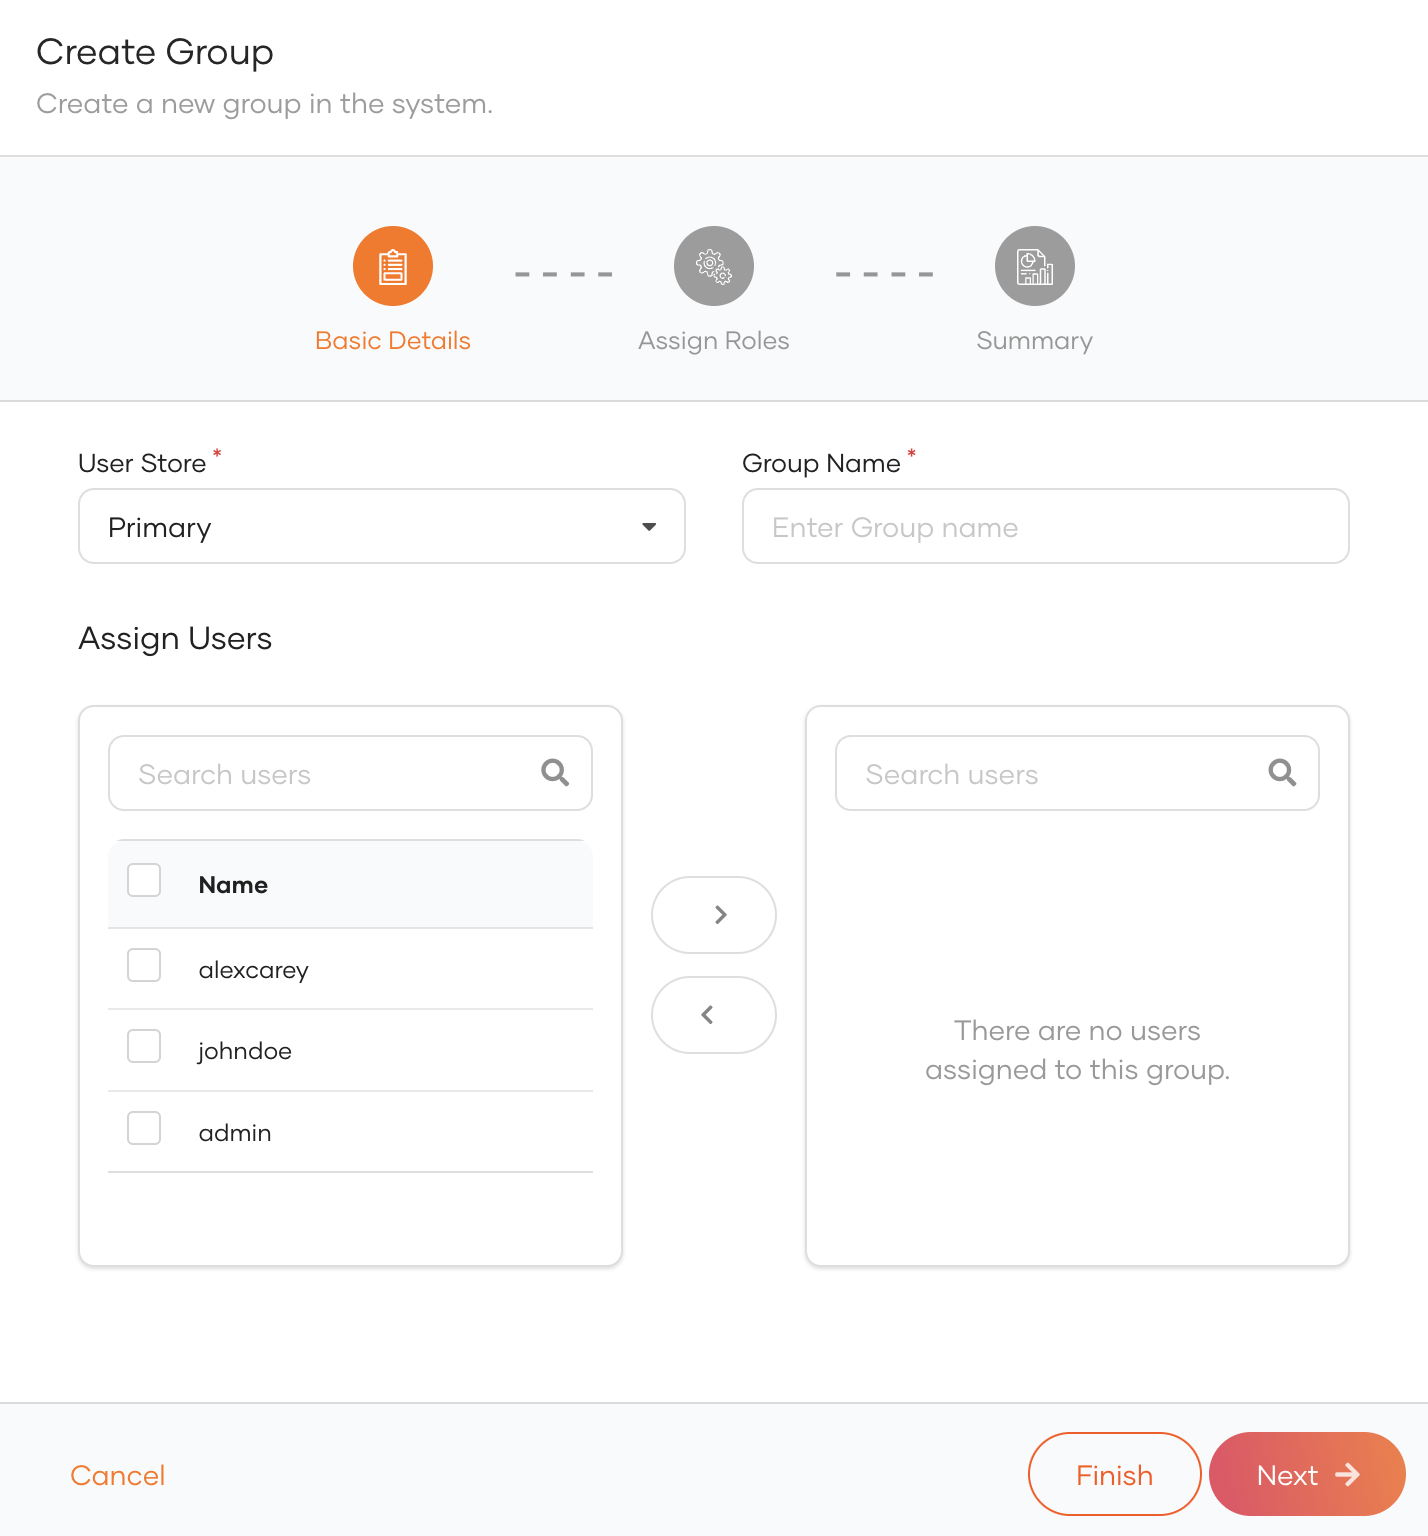
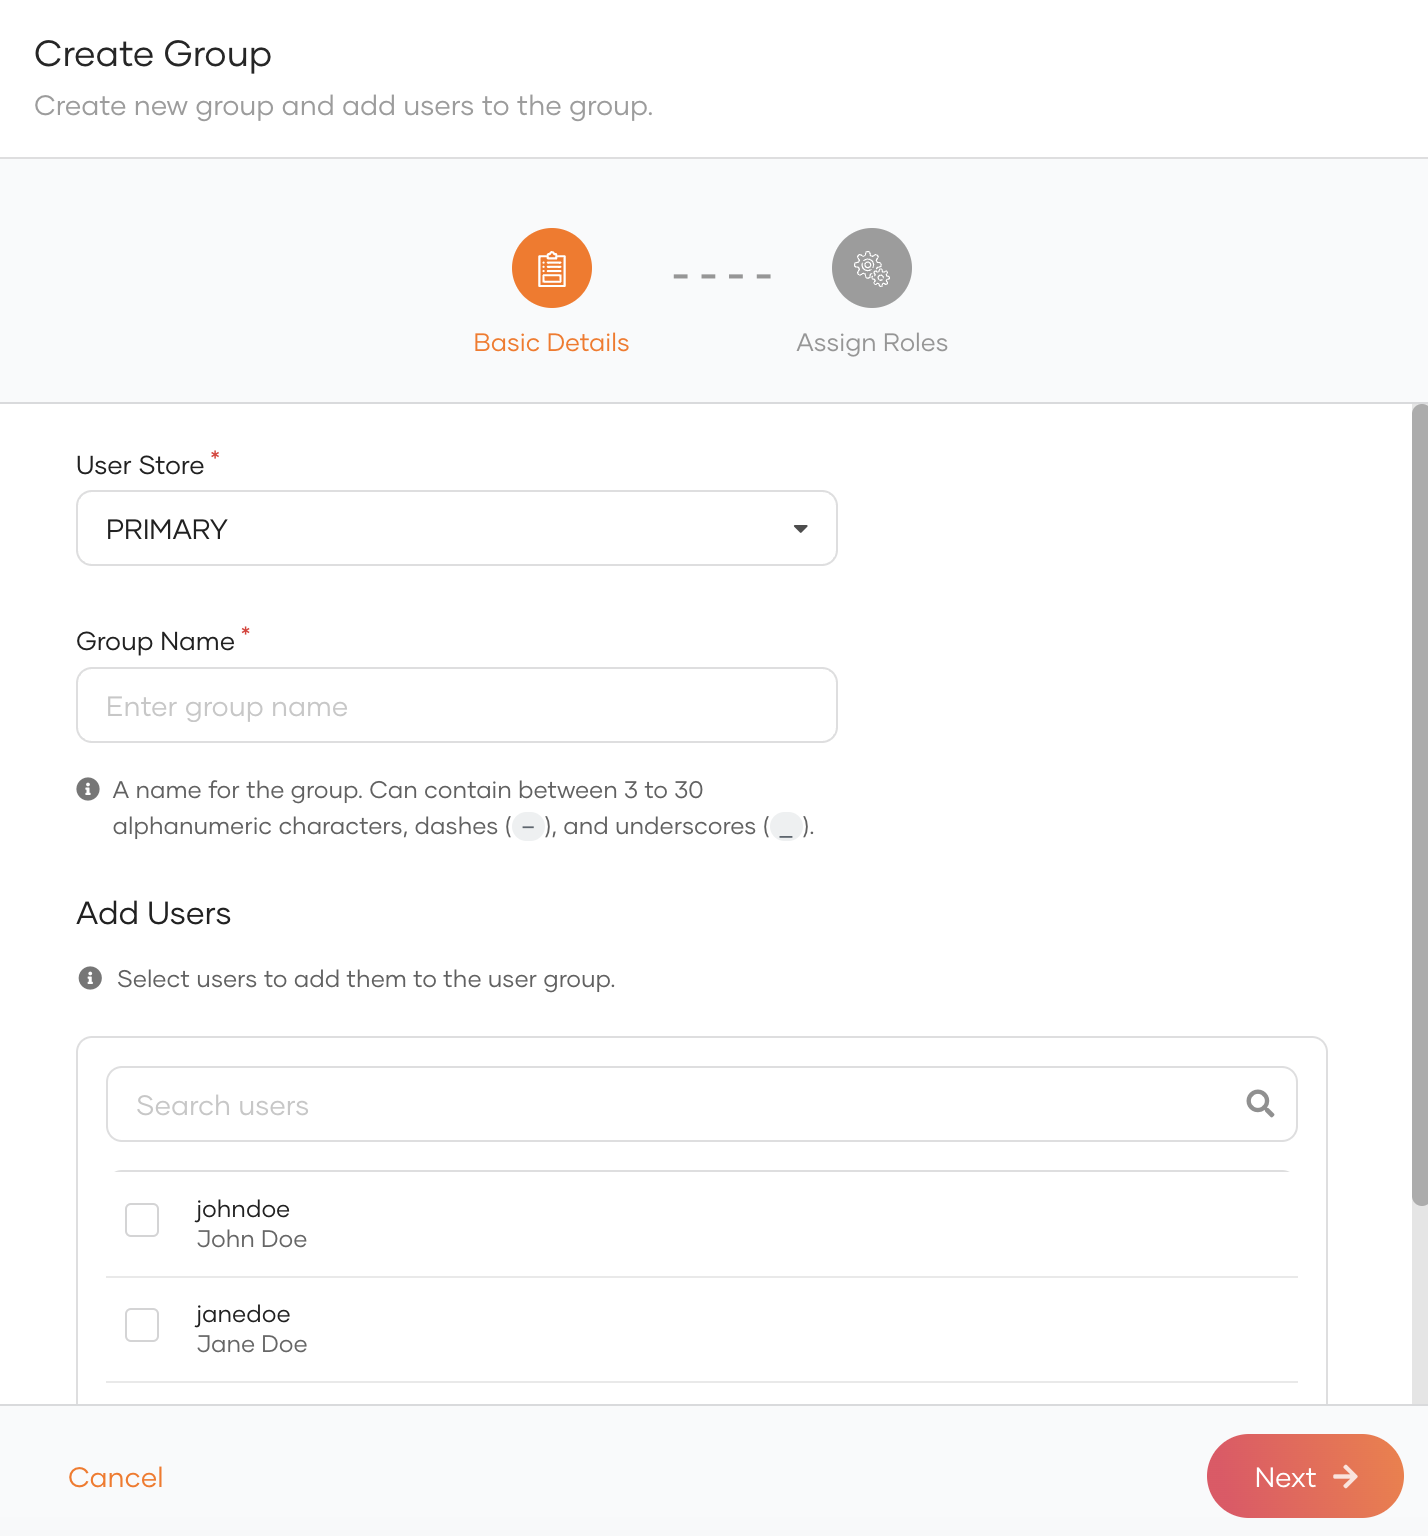
Update screenshots and steps in the manage groups section

diff --git a/en/identity-server/next/docs/guides/users/manage-groups.md b/en/identity-server/next/docs/guides/users/manage-groups.md
@@ -24,7 +24,11 @@ Let's look at how administrators can onboard groups from the WSO2 Identity Serve
 
     ![create-new-group-form]({{base_path}}/assets/img/guides/groups/create-new-group-form.png){: width="600" style="display: block; margin: 0; border: 0.3px solid lightgrey;"}
 
-3. Click **Finish**.
+3. Click **Next** and in the next step, you can assign roles to the group (optional).
+
+    ![assign-roles-to-group-view]({{base_path}}/assets/img/guides/groups/assign-roles-to-group-view.png){: width="600" style="display: block; margin: 0; border: 0.3px solid lightgrey;"}
+
+4. Click **Finish**.
 
 ## Assign users to groups
 Users can be assigned to groups. Admins can allow/restrict access to resources based on the groups.
@@ -51,9 +55,7 @@ To remove users from a group:
 
     ![remove-user-from-group-view]({{base_path}}/assets/img/guides/groups/remove-user-from-group-view.png){: width="600" style="display: block; margin: 0; border: 0.3px solid lightgrey;"}
 
-4. Click **Edit** icon.
-5. Clear the checkbox for the user(s) you want to remove.
-6. Click **Save**.
+4. Click **Delete** icon of the user(s) you want to remove.
 
 ## Delete a group
 An administrator can delete groups via the WSO2 Identity Server Console.
